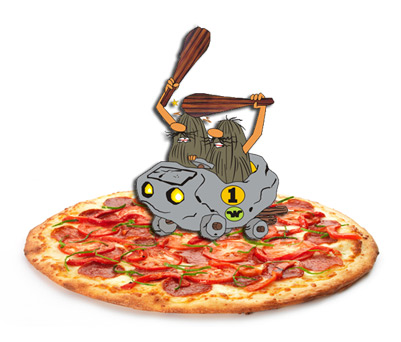
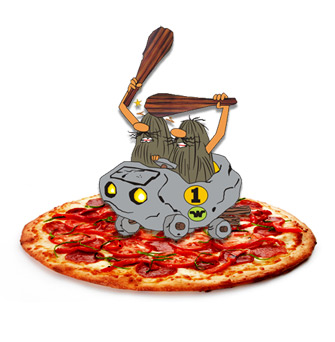
new bros

diff --git a/app/assets/stylesheets/days.css.scss b/app/assets/stylesheets/days.css.scss
@@ -23,7 +23,7 @@ body {
   img {
     margin: 0 auto;
     display: block;
-    width: 320px;
+    width: 350px;
   }
   p {
     text-align: center;

diff --git a/app/controllers/application_controller.rb b/app/controllers/application_controller.rb
@@ -6,7 +6,7 @@ class ApplicationController < ActionController::Base
 
   def reservations_time?
     hour = Time.zone.now.hour
-    !!(hour >= 10 and hour <= 12)
+    hour >= 10 and hour <= 12
   end
 
   def today
